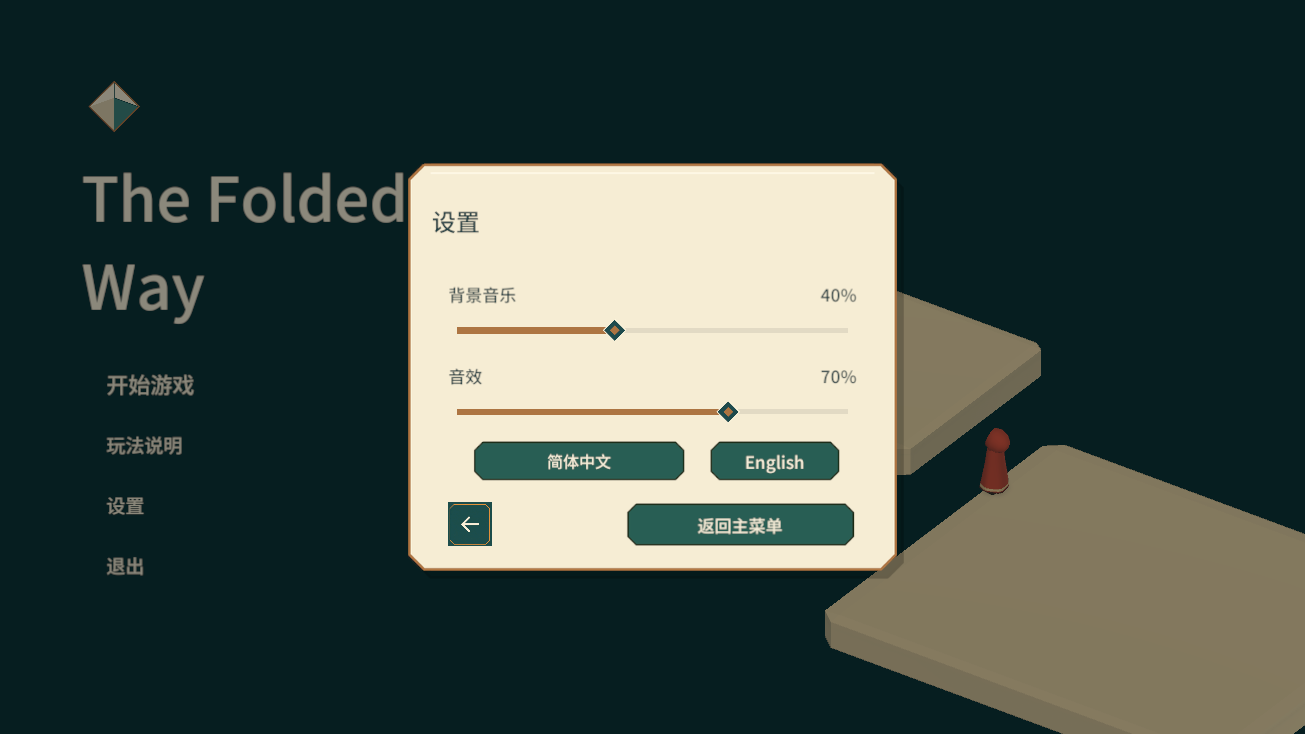
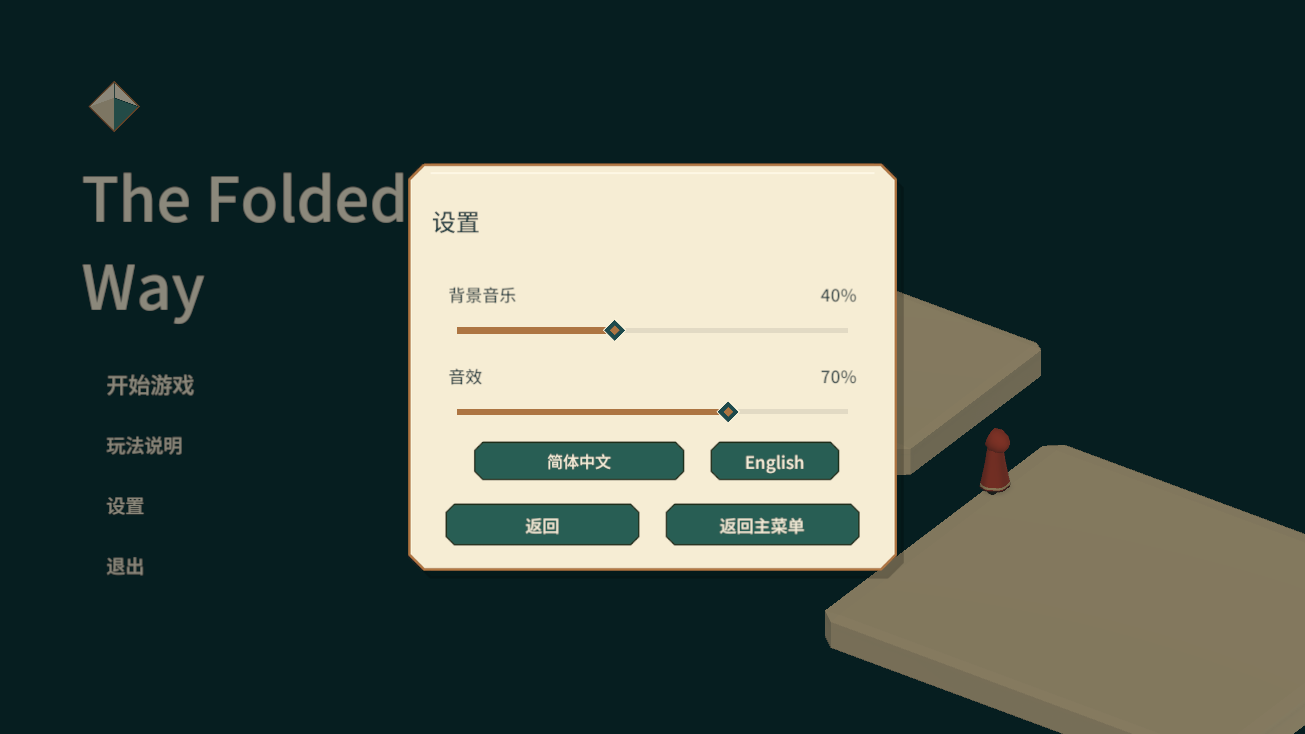
将设置返回改为同款文字按钮

Changed region(s): [[0.3372, 0.6594, 0.613, 0.7493], [0.6437, 0.6894, 0.6743, 0.7493]]

diff --git a/Documents~/开发/本地化与关卡净空.md b/Documents~/开发/本地化与关卡净空.md
@@ -31,7 +31,7 @@ LanguageManager.Get("ui.levelTitle", 4,
 
 ## 界面按钮
 
-选关、玩法说明和设置使用返回箭头图片。设置左下方返回箭头仅关闭设置，右下方返回主菜单，退出游戏保留在开始界面。设置继续作为叠加面板，不参与主面板互斥切换
+选关和玩法说明使用返回箭头图片。设置底部使用同样样式的文字按钮，左侧“返回 / Back”仅关闭设置，右侧返回主菜单，退出游戏保留在开始界面。设置继续作为叠加面板，不参与主面板互斥切换
 
 UI 均保存于 `Assets/Resources/Prefab/Ui/UIRoot/UIRoot.prefab`，图片归入该包的 `Image` 目录，无运行时 UI 构建逻辑
 
